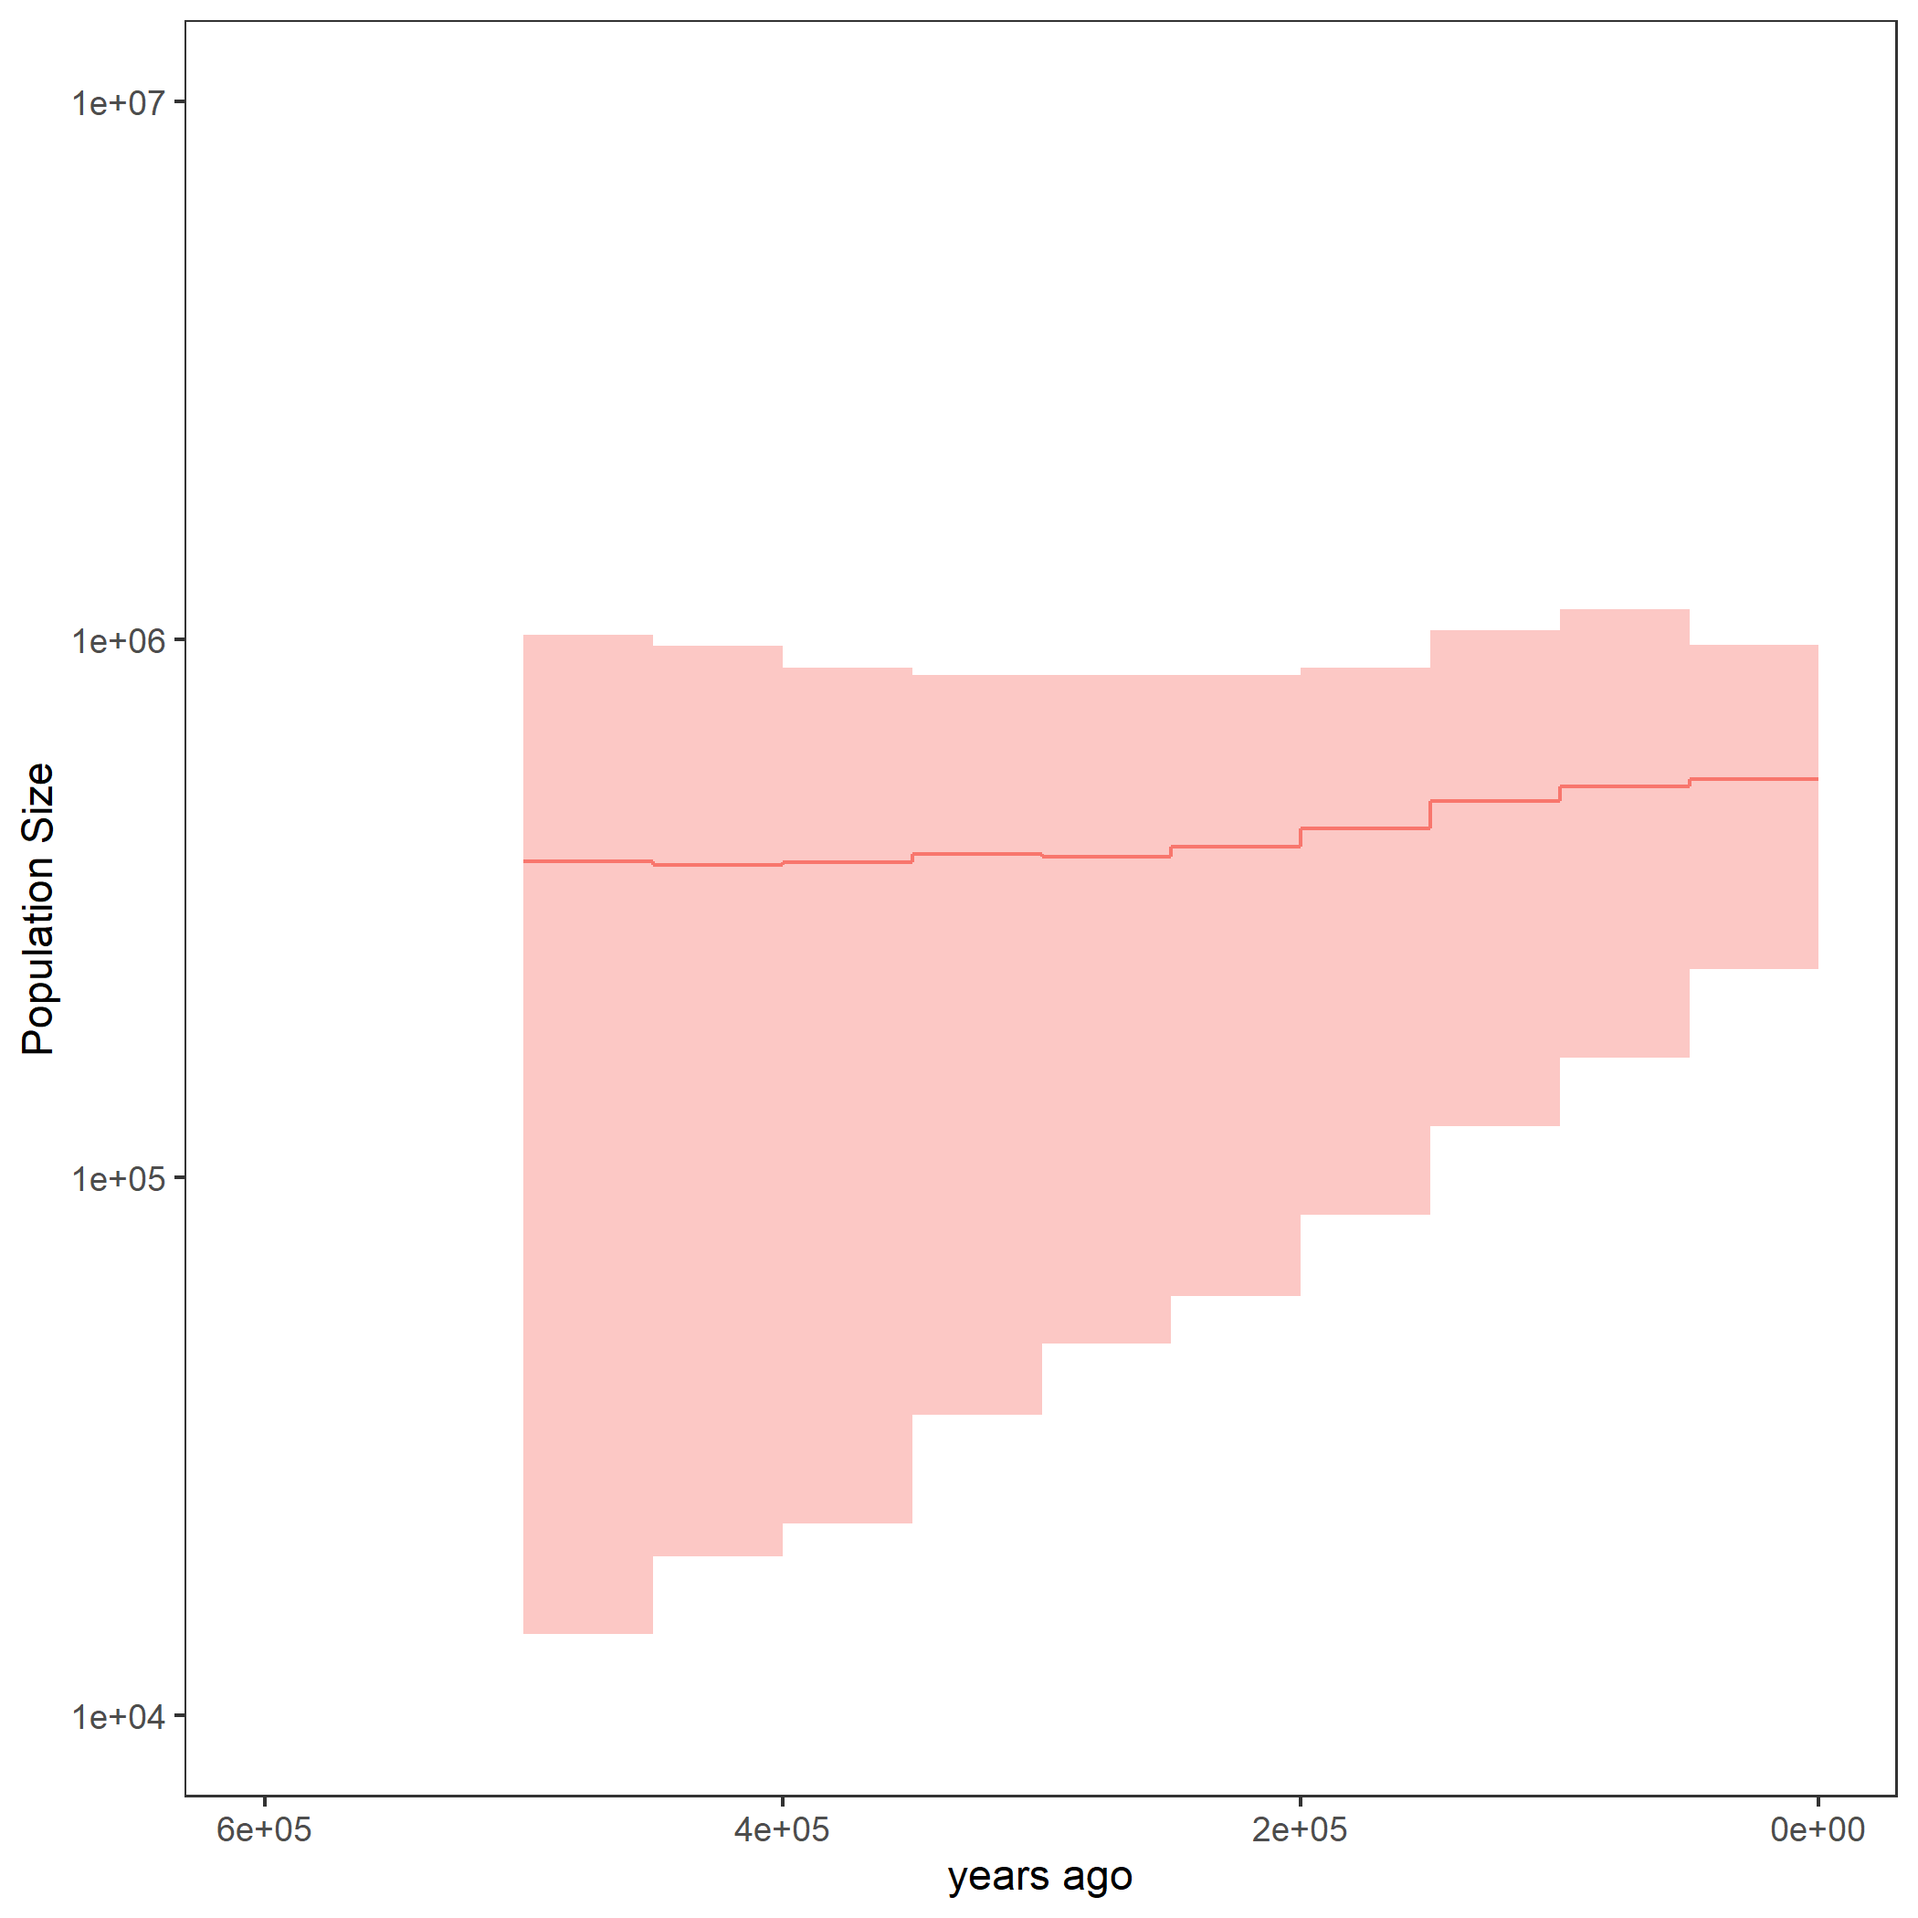
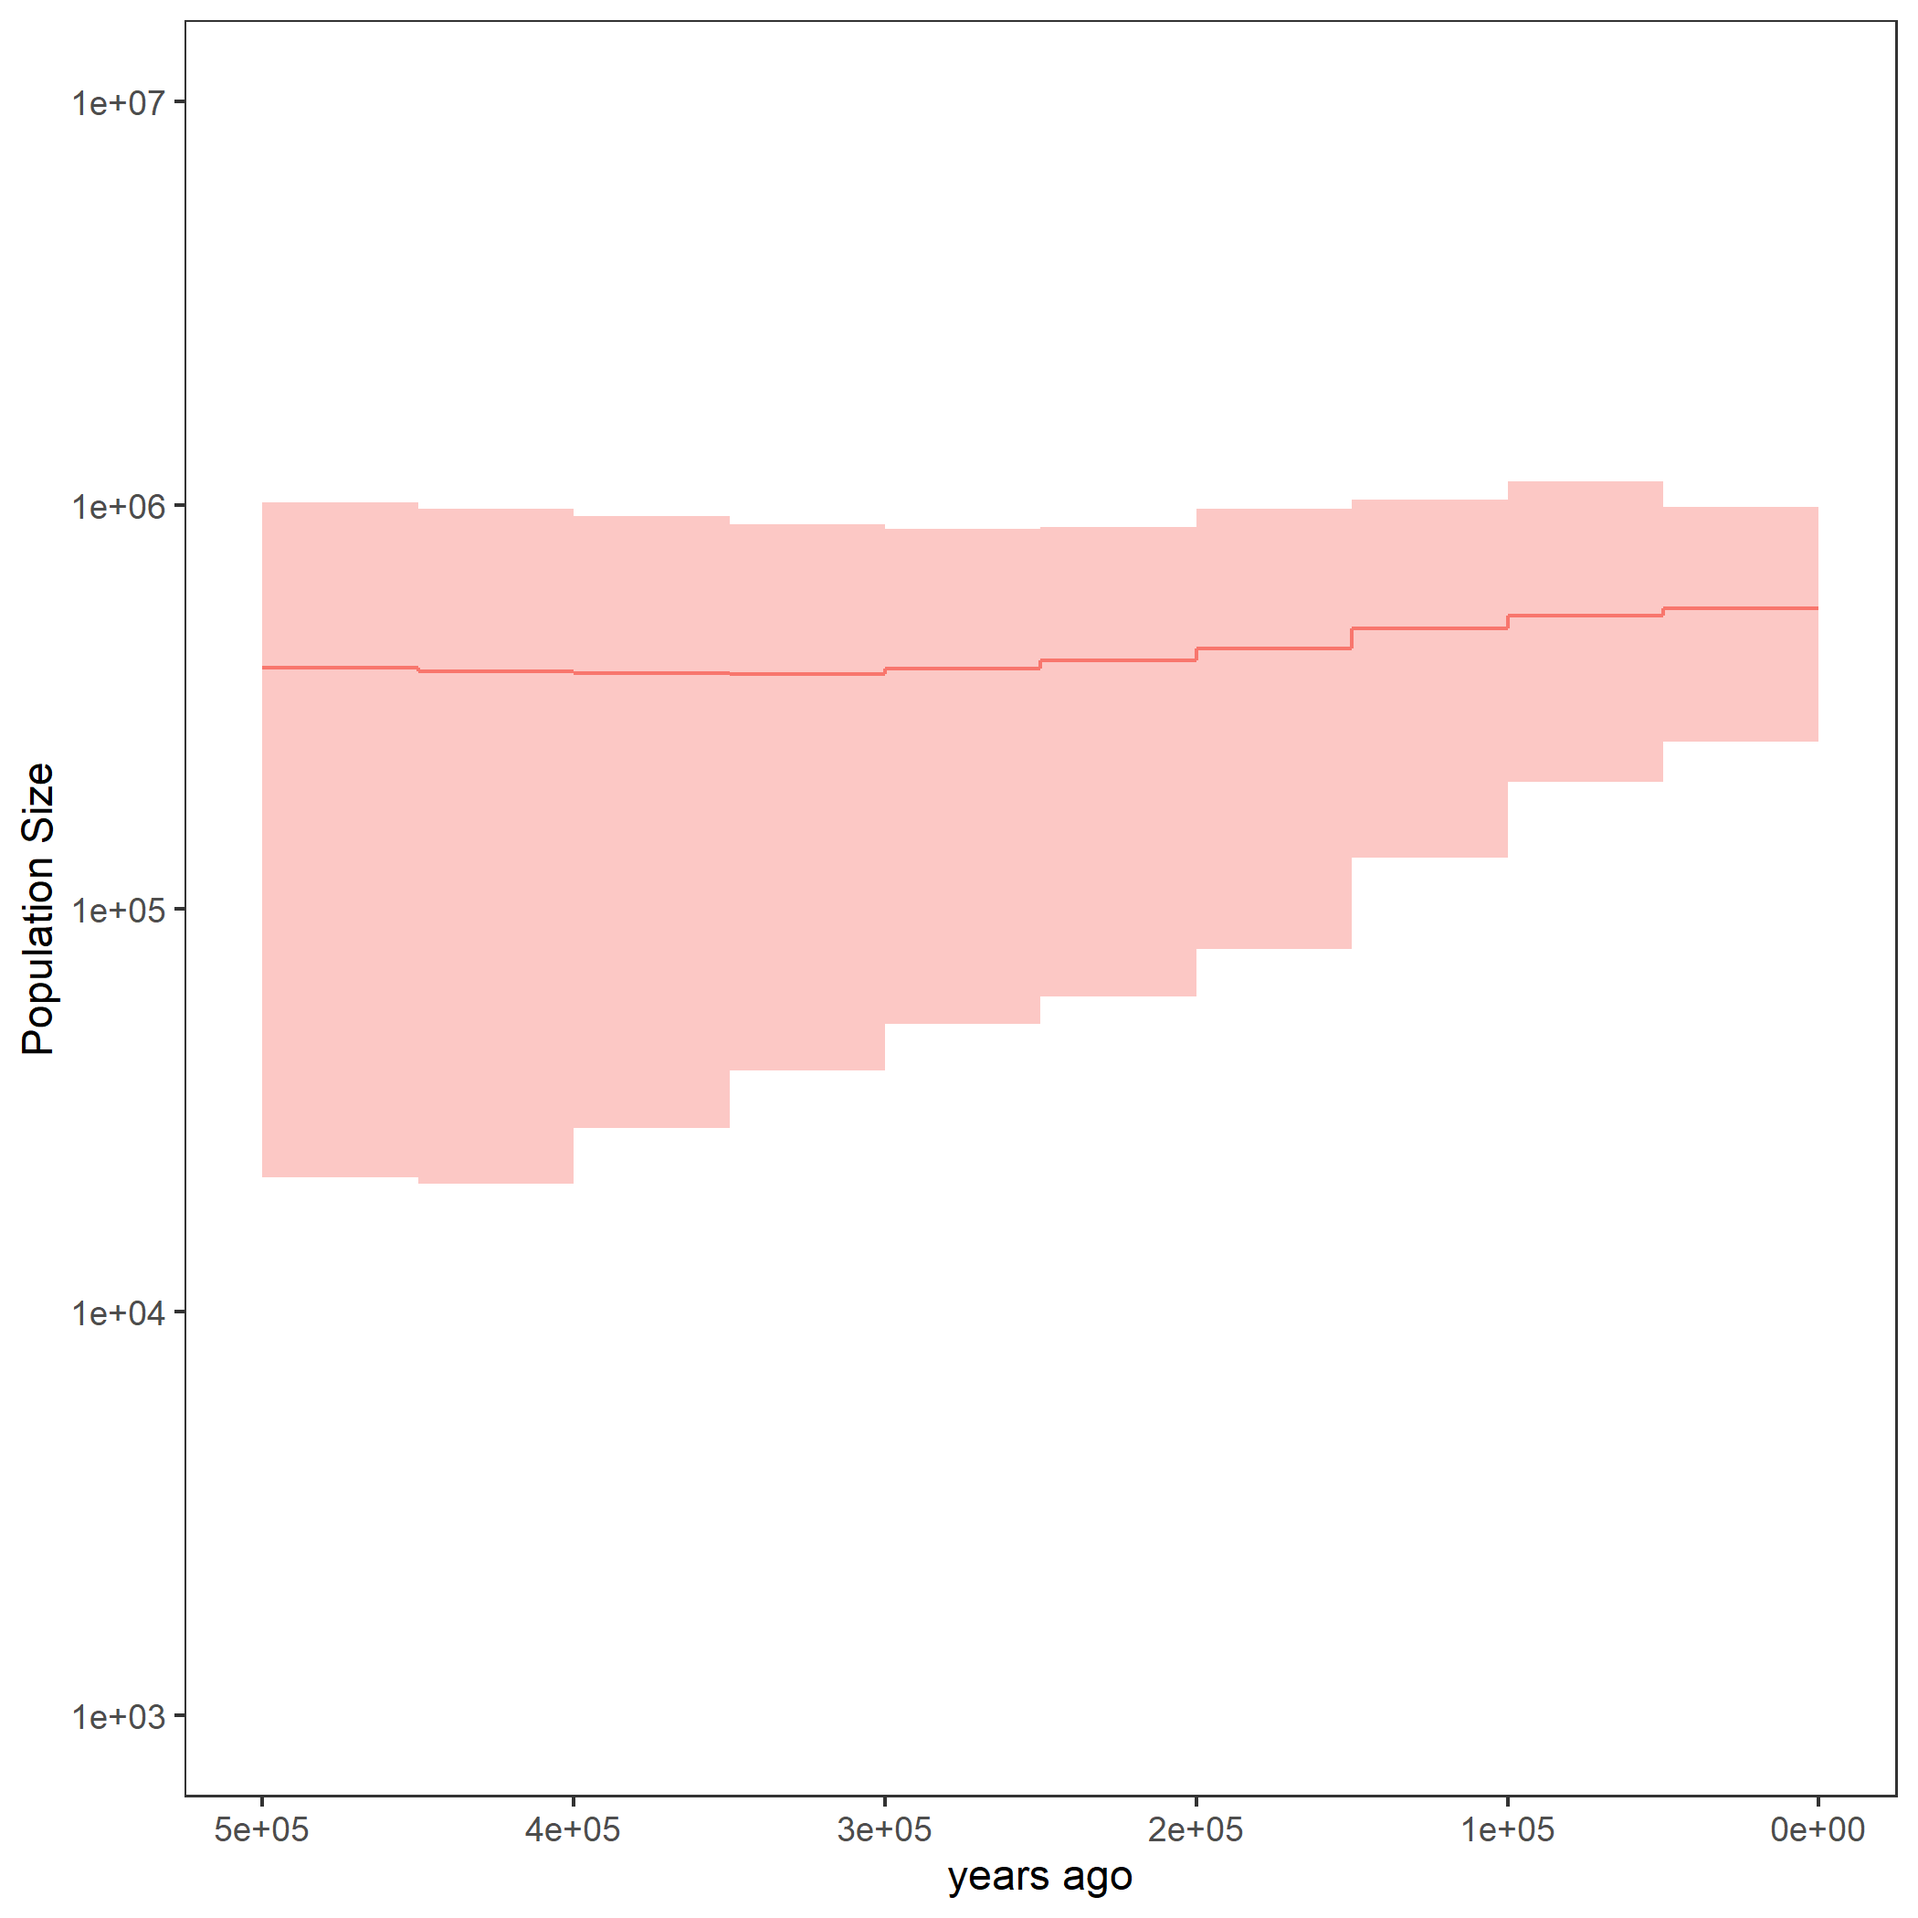
additions to coalescent tutorial

diff --git a/tutorials/coalescent/GMRF.md b/tutorials/coalescent/GMRF.md
@@ -48,16 +48,14 @@ NUM_INTERVALS = 10
 You will also need to define the points of change in time.
 Here, we define the maximal age to be $500000$ which should cover the whole tree.
 Further backwards in time the population size is thought to be in equilibrium and to be equal to the population size of the most ancient interval.
-The first interval starts at $t = 0$, the other starting points depend on the number of intervals and the maximal age.
+The first interval (automatically) starts at $t = 0$, the other starting points depend on the number of intervals and the maximal age.
 
 ~~~
 MAX_AGE = 500000
 
-changePoints[1] <- 0
+for (i in 1:(NUM_INTERVALS-1)) {
 
-for (i in 2:NUM_INTERVALS) {
-
-    changePoints[i] <- (i-1) * ((MAX_AGE)/NUM_INTERVALS)
+    changePoints[i] <- i * ((MAX_AGE)/NUM_INTERVALS)
 
 }
 ~~~

diff --git a/tutorials/coalescent/index.md b/tutorials/coalescent/index.md
@@ -87,6 +87,6 @@ The first five exercises work with homochronous data, the last one with heteroch
 2. [The skyline model]({{base.url}}/tutorials/coalescent/skyline)
 3. [The Gaussian Markov Random Field (GMRF) model]({{base.url}}/tutorials/coalescent/GMRF)
 4. [The GMRF model with trees as input data]({{base.url}}/tutorials/coalescent/GMRF_treebased)
+5. [A piecewise model]({{base.url}}/tutorials/coalescent/piecewise)
 
-<!--- 5. [A piecewise model]({{base.url}}/tutorials/coalescent/piecewise)
-6. [Heterochronous data]({{base.url}}/tutorials/coalescent/heterochronous) --->
+<!--- 6. [Heterochronous data]({{base.url}}/tutorials/coalescent/heterochronous) --->

diff --git a/tutorials/coalescent/skyline.md b/tutorials/coalescent/skyline.md
@@ -128,7 +128,7 @@ monitors.append( mnScreen(pop_size, root_age, printgen=100) )
 After running your analysis, you can plot the results again using the `R` package `RevGadgets`.
 
 {% figure example_skyline %}
-<img src="figures/horses_skyline.png" width="800">
+<img src="figures/horses_skyline_n.png" width="800">
 {% figcaption %}
 This is how the resulting skyline plot should roughly look like.
 {% endfigcaption %}
